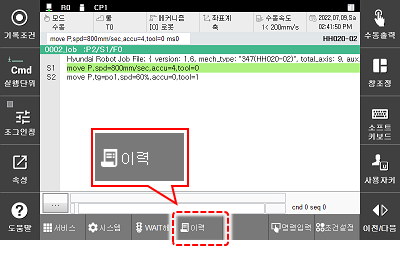
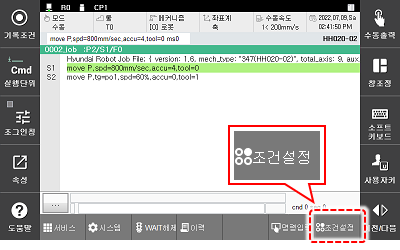
영문 작성 중 확인오류 수정

diff --git a/2-operation/1-manual-operation/2-op-speed.md b/2-operation/1-manual-operation/2-op-speed.md
@@ -1,14 +1,22 @@
 # 2.1.2    운전 속도 조정
 
-수동 모드에서는 스텝 전후진 운전과 수동 조그 조작을 이용해 로봇을 조작합니다. TP 우측 상단에 아래와 같이 속도 창에 현재 설정된 속도가 표시 됩니다.
+수동 모드에서는 스텝 전후진 운전과 수동 조그 조작을 이용해 로봇을 조작합니다. TP 우측 상단의 아래와 같은 속도 표시창에, 현재 설정된 속도가 표시 됩니다.
 
 ![](../../_assets/tp630/sbar-spd-manual.png)
 
 상단의 ‘수동속도’ 는 수동모드에서만 표시되며 자동모드 일 경우 ‘재생속도’로 표시가 변경됩니다. 속도 창 하단 좌측 8는 조그 속도 레벨을 나타내고, 우측 200mm/s는 스텝 전/후진시의 제한속도를 의미합니다. 
-여기서 제한 속도라 함은 스텝 전/후진시 제한 되는 속도를 나타내며 좌측의 < 표시는 같거나 작음을 의미합니다. 예를 들어, 기록된 스텝의 속도가 1000 mm/s 이고 수동모드의 제한 속도가 200 mm/s 라면 스텝 전/후진시 스텝의 이동 속도는 200 mm/s 로 제한됩니다.
+여기서 제한 속도라 함은 스텝 전/후진시 제한 되는 속도를 나타내며 좌측의 < 표시는 같거나 작음을 의미합니다. 
+
+
+예를 들어, 기록된 스텝의 속도가 1000 mm/s 이고 수동모드의 제한 속도가 200 mm/s 라면 스텝 전/후진시 스텝의 이동 속도는 200 mm/s 로 제한됩니다.
 만약, 이 때 기록 속도가 100 mm/s 라면 이 속도는 수동속도인 250 mm/s 보다 작으므로 로봇은 100 mm/s 로 이동하게 됩니다.
 
-조그 조작에는 [SPEED] 키를 사용하여 속도를 level 1 에서 level 8까지 단계별로 조절 할 수 있습니다. 이 때에도 로봇 툴의 속도는 수동 속도 이하로 제한됩니다.
+
+{% hint style="info" %}
+스텝 제한 속도를 설정은 "[5.1 운전 조건 설정](../../5-conditional-setting/1-op-cond-set.md)"를 참고하시기 바랍니다..
+{% endhint %}
+
+조그 조작은 [SPEED] 키를 사용하여 속도를 level 1 에서 level 8까지 단계별로 조절 할 수 있습니다. 이 때에도 로봇 툴의 속도는 수동 속도 이하로 제한됩니다.
 
 <br>
 

diff --git a/6-monitoring/2-job.md b/6-monitoring/2-job.md
@@ -1,10 +1,10 @@
 # 6.2 job
 
-<**SHIFT**>+<**프로그램**>키를 누르면 프로그램 선택창이 나타납니다. 해당 창에서 프로그램을 생성, 삭제 및 선택할 수 있습니다.
+패널 선택창에서 \[job\]을 터치하십시오. 전체 프로그램 리스트를 보기 위해서는 <**SHIFT**>+<**프로그램**>키를 누르면 프로그램 선택창이 나타납니다.
 
 ![](../_assets/tp630/k-prg-select.png)
 
-선택된 프로그램이 화면에 보이면 명령어 추가 등 편집할 수 있습니다.  
+선택된 프로그램이 화면에 보이면 명령어 추가, 수정 등 편집을 수행할 수 있습니다.  
 
 ![](../_assets/tp630/pane-job.png)
 
@@ -20,17 +20,15 @@
       <td style="text-align:left">
         <img src="../_assets/tp630/k-prog-step.png" alt/>
       </td>
-      <td style="text-align:left"><<b>SHIFT</b>>+<<b>프로그램</b>>:  작성된 프로그램
-            목록에서 프로그램을 선택하거나 삭제합니다.</td>
+      <td style="text-align:left"> <ul> <<b>SHIFT</b>>+<<b>프로그램</b>>:  프로그램 목록에서 프로그램을 생성, 삭제, 선택합니다. <ul/></td>
     </tr>
      <tr>
       <td style="text-align:left">
         <img src="../_assets/c1.png" alt/>
       </td>
-      <td style="text-align:left">프로그램의 기본 정보와
-        명령문을 표시합니다.
-        명령문의 상세 정보를
-        확인하고 편집할 수 있습니다.</td>
+      <td style="text-align:left"><ul>프로그램의 기본 정보와
+        명령문을 표시합니다. 명령문의 상세 정보를
+        확인하고 편집할 수 있습니다.<ul/></td>
     </tr>
     <tr>
       <td style="text-align:left">

diff --git a/5-conditional-setting/1-op-cond-set.md b/5-conditional-setting/1-op-cond-set.md
@@ -2,7 +2,7 @@
 
 1.	초기 화면에서 좌측 상단의 \[속도조절\] 버튼을 터치하십시오. 운전 조건 설정창이 나타납니다.
 
-![](../_assets/tp630/sbar-spd-auto.png)  ![](../_assets/tp630/sbar-spd-manual.png)
+    ![](../_assets/tp630/sbar-spd-auto.png)  ![](../_assets/tp630/sbar-spd-manual.png)
 
 {% hint style="info" %}
 \[속도조절\] 버튼에는 수동 모드일 때에는 스텝 전후진 제한 속도\(㎜/sec\)가 표시되고, 자동 모드에서는 재생 속도\(%\)가 표시됩니다.
@@ -10,11 +10,9 @@
 
 
 
-2.	다음 절차를 반복하여 운전 조건 설정값을 변경한 후 \[**확인**\] 버튼을 터치하십시오.
+2.	운전 조건 설정값을 변경한 후 \[**확인**\] 버튼을 터치하십시오. 세부 설정값들에 대한 설명은 다음장으로 이어집니다.
 
-![](../_assets/tp630/sbar-condi-setting.png)
+    ![](../_assets/tp630/sbar-condi-setting.png)
 
-a.	방향키로 원하는 옵션을 선택하거나 숫자키를 눌러 수치를 입력하십시오.
 
-b.	<<b>ENTER</b>> 키를 누르십시오. 변경 내용이 적용되어 설정값이 변경되고 커서가 다음 항목으로 이동합니다.
 

diff --git a/5-conditional-setting/2-op-cond-set-info.md b/5-conditional-setting/2-op-cond-set-info.md
@@ -29,7 +29,7 @@
 * \[7: 로봇 Lock\]: 로봇을 실제로 움직이지 않고 작업 프로그램을 자동 운전하도록 설정합니다. 주변 기기와의 입출력 상태와 소프트 리미트, 사이클 타임 등을 확인할 수 있습니다.
 * \[8: 보간기준\]: 수동으로 로봇을 조그 동작할 때 기준이 되는 툴을 설정합니다. 일반적으로 로봇툴을 보간 기준으로 사용합니다.
   * 로봇툴: 로봇 선단에 부착된 툴을 기준으로 보간 동작을 실행합니다.
-  * 정치툴: 바닥면 등에 고정된 툴의 선단을 기준으로 보간 동작을 실행합니다. 정치툴을 보간 기준으로 선택하면 초기 화면 좌측의 툴 번호가 ST0으로 표시됩니다\(![](../_assets/tp630/sbt-crd-user-small.png)\).
+  * 정치툴: 바닥면 등에 고정된 툴의 선단을 기준으로 보간 동작을 실행합니다. 정치툴을 보간 기준으로 선택하면 초기 화면 좌측의 툴 번호가 ST0으로 표시됩니다\(![](../_assets/tp630/sbt-crd-st0-small.png)\).
 
 
 {% hint style="info" %}

diff --git a/3-programming/2-prog-edit/1-statement.md b/3-programming/2-prog-edit/1-statement.md
@@ -20,27 +20,3 @@
 ![그림 28 명령문 편집 - 인수값 입력](../../_assets/tp630/pane-prog-move-option.png)
 
 명령어 인수를 편집할 때는 티치 펜던트의 조작키와 화면 하단의 메뉴 버튼을 이용하거나 소프트 키보드를 이용하여 변수나 수식, 문자열을 편집할 수 있습니다.
-
-<table>
-  <tr>
-    <td>내용</td>
-    <td>내용</td>
-  </tr>
-  <tr>
-    <td colspan="2">내용</td>
-  </tr>
-</table>
-
-
-<table>
-  <tr>
-    <td rowspan="3">내용</td>
-    <td>내용</td>
-  </tr>
-  <tr>
-    <td>내용</td>
-  </tr>
-  <tr>
-    <td>내용</td>
-  </tr>
-</table>

diff --git a/6-monitoring/1-using-monitoring.md b/6-monitoring/1-using-monitoring.md
@@ -1,6 +1,6 @@
 # 6.1 모니터링 기능 사용
 
-1.	화면 우측의 \[**창조정**\] 버튼과 하단의 [**분할**] 버튼을 터치한 후 왼쪽 하단의 [**선택**] 버튼까지 터치 하십시오. 패널 선택창이 나타납니다.
+1.	화면 우측의 \[**창조정**\] 버튼과 하단의 [**분할**] 버튼을 터치한 후 왼쪽 하단의 [**선택**] 버튼까지 순서대로 터치 하십시오. 패널 선택창이 나타납니다.
 
 ![](../_assets/tp630/rbt-window-divide.png)
 

diff --git a/8-r-code/6-r211.md b/8-r-code/6-r211.md
@@ -6,7 +6,7 @@
 
 2.	서보건 가압력을 입력한 후 \[**확인**\] 버튼을 터치하거나 <<b>ENTER</b>> 키를 누르십시오.
 
-![](../_assets/tp630/pop-rcode-210.png)
+![](../_assets/tp630/pop-rcode-211.png)
 
 * 용접 조건 파일의 가압력은 변경되지 않습니다.
 * 입력한 가압력이 서보건 파라미터의 전류 가압력 테이블의 상한치보다 크거나 작으면 경고 메시지가 나타납니다.

diff --git a/2-operation/1-manual-operation/1-how-to-op.md b/2-operation/1-manual-operation/1-how-to-op.md
@@ -20,7 +20,7 @@
 
 ![](../../_assets/tp630/k-prog-step.png)
 
-5. 프로그램 선택창의 목록에서 프로그램을 선택하거나 프로그램 번호를 입력한 후 [**확인**] 버튼을 터치하십시오.
+5. 프로그램 선택창의 목록에서 프로그램을 선택하거나 프로그램 번호를 입력한 후 <**ENTER**> 키를 누르십시오.
 
 ![](../../_assets/tp630/dlg-prog-sel.png)
 
